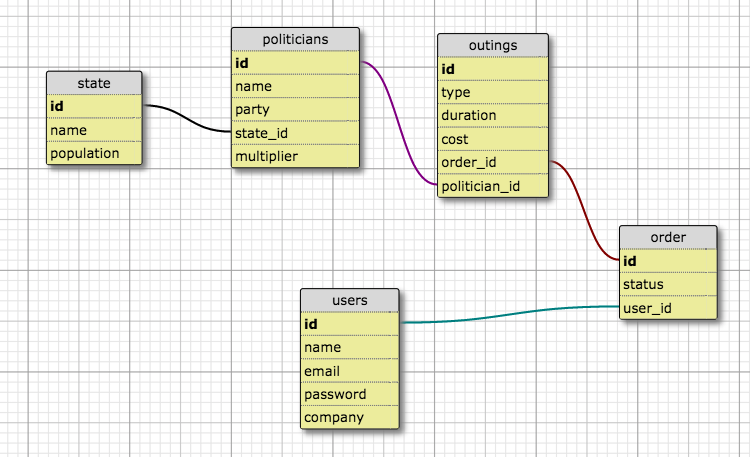
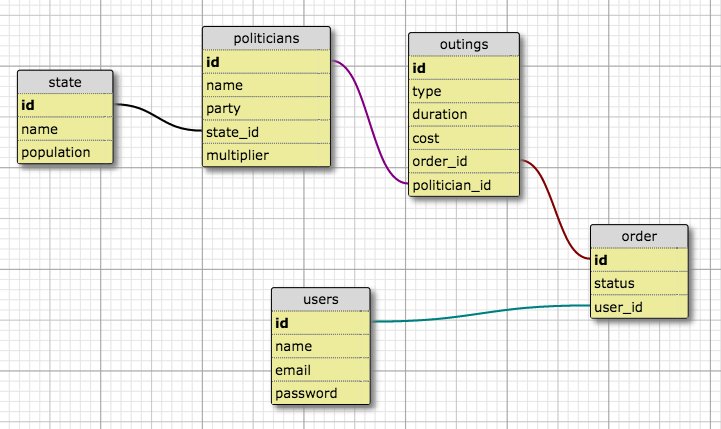
Correction in database wireframe for users table

diff --git a/spec/factories.rb b/spec/factories.rb
@@ -17,4 +17,13 @@ FactoryGirl.define do
     image_url "some image"
     politician
   end
+
+  factory :user do
+    
+  end
+
+  factory :order do
+    status 0
+    user
+  end
 end
